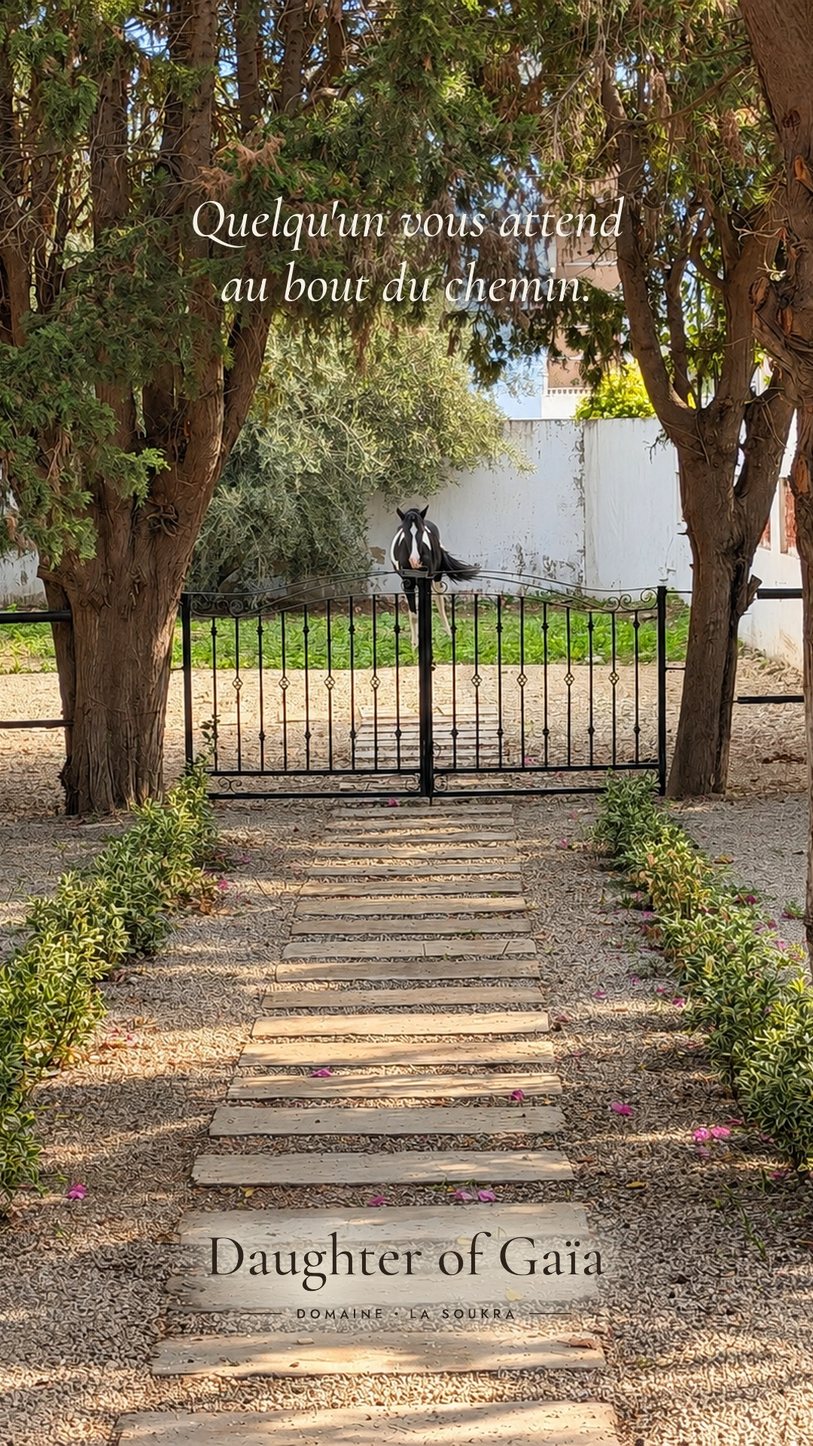
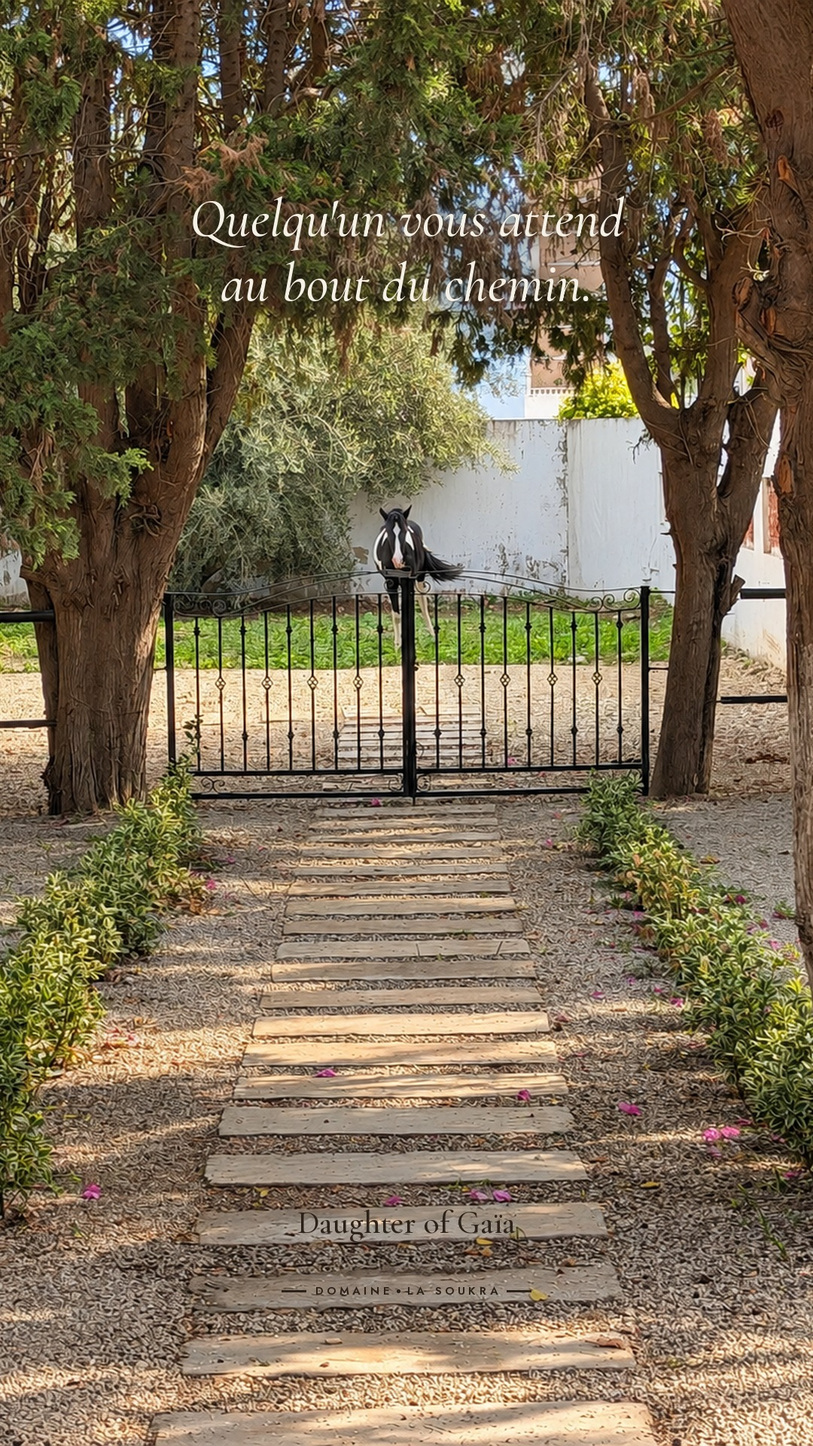
Story allée : allée redressée et centrée, signature écrite sur les dalles
Claude-Session: https://claude.ai/code/session_01NbEMafBkY3AdMos4dxswM8

diff --git a/instagram/story_allee.py b/instagram/story_allee.py
@@ -1,50 +1,113 @@
 """Story : l'allée qui mène au portail, et un cheval qui attend derrière.
 
-Plein écran. La phrase en blanc en haut, sur le feuillage sombre ; la
-signature en bas, en brun foncé, sur les pierres claires de l'allée.
+L'allée est redressée pour être bien droite et au centre : les haies de gauche
+et de droite tombent alors à la même distance. La phrase est en blanc en haut,
+sur le feuillage ; la signature est écrite en brun foncé à même les dalles,
+le nom sur une dalle et « DOMAINE • LA SOUKRA » sur la suivante.
 
     python3 instagram/story_allee.py
 """
 from pathlib import Path
-from PIL import Image, ImageDraw, ImageFilter, ImageFont, ImageOps
 
-from signature import BLANC, ENCRE, POLICES, SABLE, signature
+import numpy as np
+from PIL import Image, ImageDraw, ImageFont
+
+from signature import BLANC, ENCRE, POLICES, TERRA
 from story_video import ombre_douce
 
 RACINE = Path(__file__).resolve().parent
 W, H = 1080, 1920
-VERSIONS = {
-    "allee": None,
-    "allee-phrase": ("Quelqu'un vous attend", "au bout du chemin."),
-}
+# Sur la photo d'origine, l'axe de l'allée part du poteau du portail (x = 560,
+# y = 790) et glisse vers la gauche de 0,088 px par ligne en descendant.
+AXE_X, AXE_Y, PENTE = 560, 790, 0.088
+# Les dalles qui portent la signature, une fois la story à 1080 × 1920
+# (mesurées sur le profil de luminosité de l'allée redressée).
+DALLE_NOM, DALLE_LIEU = (1606, 1648), (1698, 1731)
+PHRASE = ("Quelqu'un vous attend", "au bout du chemin.")
 
 
-def story(phrase):
-    src = ImageOps.exif_transpose(Image.open(RACINE / "photos" / "allee-portail.png")).convert("RGB")
-    fond = ImageOps.fit(src, (W, H), Image.LANCZOS, centering=(0.5, 0.5)).convert("RGBA")
-    calque = Image.new("RGBA", (W, H), (0, 0, 0, 0))
-    y = 260
-    if phrase:
-        f = ImageFont.truetype(str(POLICES / "CormorantGaramond-Italic[wght].ttf"), 72)
-        f.set_variation_by_axes([500])
-        d = ImageDraw.Draw(calque)
-        for ligne in phrase:
-            d.text((W / 2, y), ligne, font=f, fill=BLANC, anchor="mt")
-            y += 86
-    im = Image.alpha_composite(fond, ombre_douce(calque, force=0.8))
-    # Sur le gravier moucheté, l'encre seule se perd : un halo sable, large et
-    # doux, la détache du fond.
-    sig = signature(ENCRE, ENCRE, g_nom=500, g_lieu=600)
-    sig = sig.resize((560, round(sig.height * 560 / sig.width)), Image.LANCZOS)
-    pose = Image.new("RGBA", (W, H), (0, 0, 0, 0))
-    pose.paste(sig, ((W - sig.width) // 2, 1620), sig)
-    lueur = pose.getchannel("A").filter(ImageFilter.MaxFilter(21)).filter(ImageFilter.GaussianBlur(26))
-    halo = Image.new("RGBA", (W, H), SABLE)
-    halo.putalpha(lueur.point(lambda v: min(255, int(v * 1.1))))
-    im = Image.alpha_composite(Image.alpha_composite(im, halo), pose)
-    return im.convert("RGB")
+def police(nom, taille, graisse):
+    f = ImageFont.truetype(str(POLICES / nom), taille)
+    f.set_variation_by_axes([graisse])
+    return f
+
+
+def redresser(src):
+    """Décale chaque ligne sous le portail pour rendre l'axe de l'allée vertical
+    (avec une entrée en douceur sur 80 lignes, sans cassure)."""
+    a = np.asarray(src)
+    h, w, _ = a.shape
+    out = np.empty_like(a)
+    for y in range(h):
+        t = y - AXE_Y
+        s = 0 if t <= 0 else (PENTE * t * t / 160 if t < 80 else PENTE * (t - 40))
+        xs = np.clip(np.arange(w) - s, 0, w - 1)
+        x0 = np.floor(xs).astype(int)
+        x1 = np.minimum(x0 + 1, w - 1)
+        f = (xs - x0)[:, None]
+        out[y] = (a[y, x0] * (1 - f) + a[y, x1] * f).astype(np.uint8)
+    im = Image.fromarray(out)
+    cw = round(h * 9 / 16)
+    gauche = AXE_X - cw // 2
+    return im.crop((gauche, 0, gauche + cw, h)).resize((W, H), Image.LANCZOS)
+
+
+def nom_sur_dalle(d, dalle):
+    """« Daughter of Gaïa » centré sur la dalle, à la hauteur de la dalle."""
+    haut, bas = dalle
+    taille = 10
+    while True:
+        f = police("CormorantGaramond[wght].ttf", taille + 1, 500)
+        x0, y0, x1, y1 = f.getbbox("Daughter of Gaïa", anchor="ls")
+        if y1 - y0 > (bas - haut) * 1.08:
+            break
+        taille += 1
+    f = police("CormorantGaramond[wght].ttf", taille, 500)
+    x0, y0, x1, y1 = f.getbbox("Daughter of Gaïa", anchor="ls")
+    base = (haut + bas) / 2 - (y0 + y1) / 2
+    d.text((W / 2 - (x0 + x1) / 2, base), "Daughter of Gaïa", font=f, fill=ENCRE, anchor="ls")
+
+
+def lieu_sur_dalle(d, dalle, couleur=TERRA):
+    """« —— DOMAINE • LA SOUKRA —— » centré sur la dalle suivante."""
+    haut, bas = dalle
+    f, esp, gap = police("Jost[wght].ttf", 15, 600), 4.5, 12
+    mots = ("DOMAINE", "LA SOUKRA")
+
+    def chasse(m):
+        return sum(d.textlength(c, font=f) for c in m) + esp * (len(m) - 1)
+
+    larg = chasse(mots[0]) + 2 * gap + chasse(mots[1])
+    cap = f.getbbox("D", anchor="ls")
+    base = (haut + bas) / 2 - (cap[1] + cap[3]) / 2
+    milieu = base + (cap[1] + cap[3]) / 2
+    x = W / 2 - larg / 2
+    for mot, xm in ((mots[0], x), (mots[1], x + chasse(mots[0]) + 2 * gap)):
+        for c in mot:
+            d.text((xm, base), c, font=f, fill=couleur, anchor="ls")
+            xm += d.textlength(c, font=f) + esp
+    px = x + chasse(mots[0]) + gap
+    d.ellipse((px - 2, milieu - 2, px + 2, milieu + 2), fill=couleur)
+    for a, b in ((x - 12 - 32, x - 12), (x + larg + 12, x + larg + 12 + 32)):
+        d.rectangle((a, milieu - 1, b, milieu + 1), fill=couleur)
+
+
+def story():
+    fond = redresser(Image.open(RACINE / "photos" / "allee-portail.png").convert("RGB")).convert("RGBA")
+
+    texte = Image.new("RGBA", (W, H), (0, 0, 0, 0))
+    d = ImageDraw.Draw(texte)
+    f = police("CormorantGaramond-Italic[wght].ttf", 72, 500)
+    for i, ligne in enumerate(PHRASE):
+        d.text((W / 2, 260 + i * 86), ligne, font=f, fill=BLANC, anchor="mt")
+    im = Image.alpha_composite(fond, ombre_douce(texte, force=0.8))
+
+    dalles = Image.new("RGBA", (W, H), (0, 0, 0, 0))
+    d = ImageDraw.Draw(dalles)
+    nom_sur_dalle(d, DALLE_NOM)
+    lieu_sur_dalle(d, DALLE_LIEU, ENCRE)
+    return Image.alpha_composite(im, dalles).convert("RGB")
 
 
 if __name__ == "__main__":
-    for nom, phrase in VERSIONS.items():
-        story(phrase).save(RACINE / "stories" / f"{nom}.jpg", quality=92)
+    story().save(RACINE / "stories" / "allee-phrase.jpg", quality=92)
